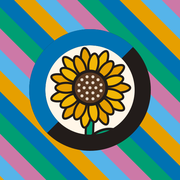
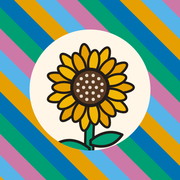
Icono: girasol sobre círculo crema, sin anillo
Claude-Session: https://claude.ai/code/session_01DxnbB1LyvtM6Gg8KpMoYjk

Changed region(s): [[0.1389, 0.1389, 0.8611, 0.8611]]

diff --git a/sw.js b/sw.js
@@ -1,6 +1,6 @@
 /* Offline support: show the saved copy at once, fetch the new version in the background.
    The new version is used on the next launch. Change VERSION to force a full refresh. */
-const VERSION = "cuento-v3";
+const VERSION = "cuento-v4";
 const FILES = ["./", "index.html", "manifest.webmanifest", "icon-192.png", "icon-512.png", "apple-touch-icon.png"];
 
 self.addEventListener("install", e => {
